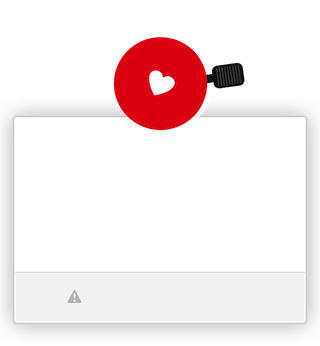
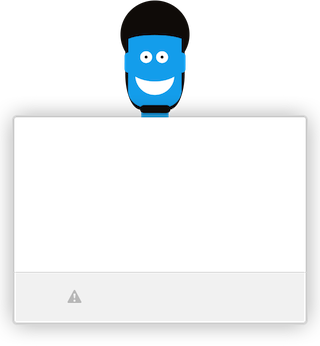
ui changes

Changed region(s): [[0.3438, 0.0, 0.7812, 0.3757]]

diff --git a/iOS/ibikecph/ibikecph/Classes/SMSplashController.m b/iOS/ibikecph/ibikecph/Classes/SMSplashController.m
@@ -64,6 +64,7 @@ typedef enum {
     loginScroll = nil;
     loginDialog = nil;
     registerImage = nil;
+    dialogView = nil;
     [super viewDidUnload];
 }
 
@@ -88,6 +89,22 @@ typedef enum {
          */
 //        [self goToFavorites:nil];
     }
+}
+
+- (void)viewDidAppear:(BOOL)animated {
+    [super viewDidAppear:animated];
+    
+    dialogView.transform = CGAffineTransformMakeScale(0.8f,0.8f);
+    CGRect frame = dialogView.frame;
+    frame.origin.y += 50.0f;
+    [dialogView setFrame:frame];
+    frame.origin.y -= 50.0f;
+    dialogView.alpha = 0.0f;
+    [UIView animateWithDuration:0.3f animations:^{
+        dialogView.alpha = 1.0f;
+        [dialogView setFrame:frame];
+        dialogView.transform = CGAffineTransformMakeScale(1.0f,1.0f);
+    }];
 }
 
 - (void)viewWillDisappear:(BOOL)animated {

diff --git a/iOS/ibikecph/ibikecph/Classes/SMSplashController.h b/iOS/ibikecph/ibikecph/Classes/SMSplashController.h
@@ -24,6 +24,7 @@
     __weak IBOutlet UIScrollView *loginScroll;
     __weak IBOutlet UIView *loginDialog;
     __weak IBOutlet UIButton *registerImage;
+    __weak IBOutlet UIView *dialogView;
 }
 
 @end
